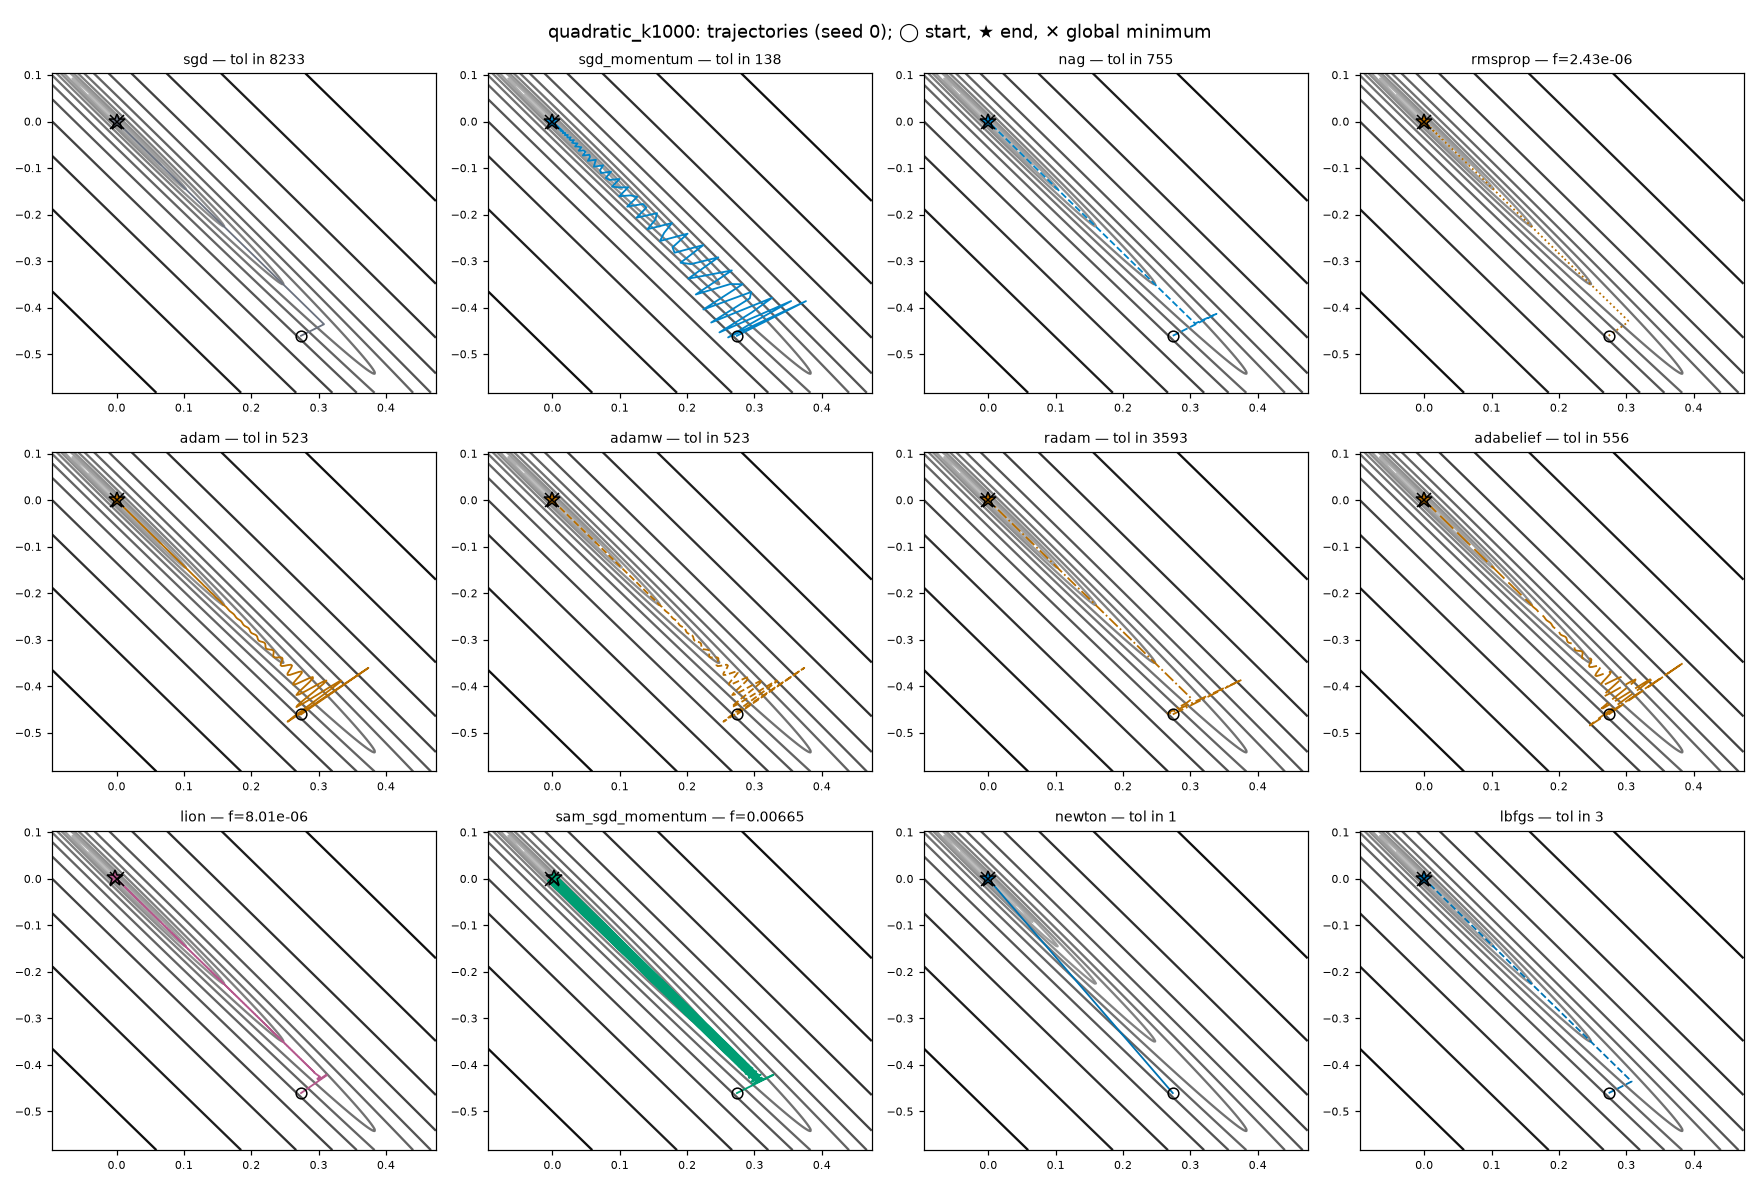
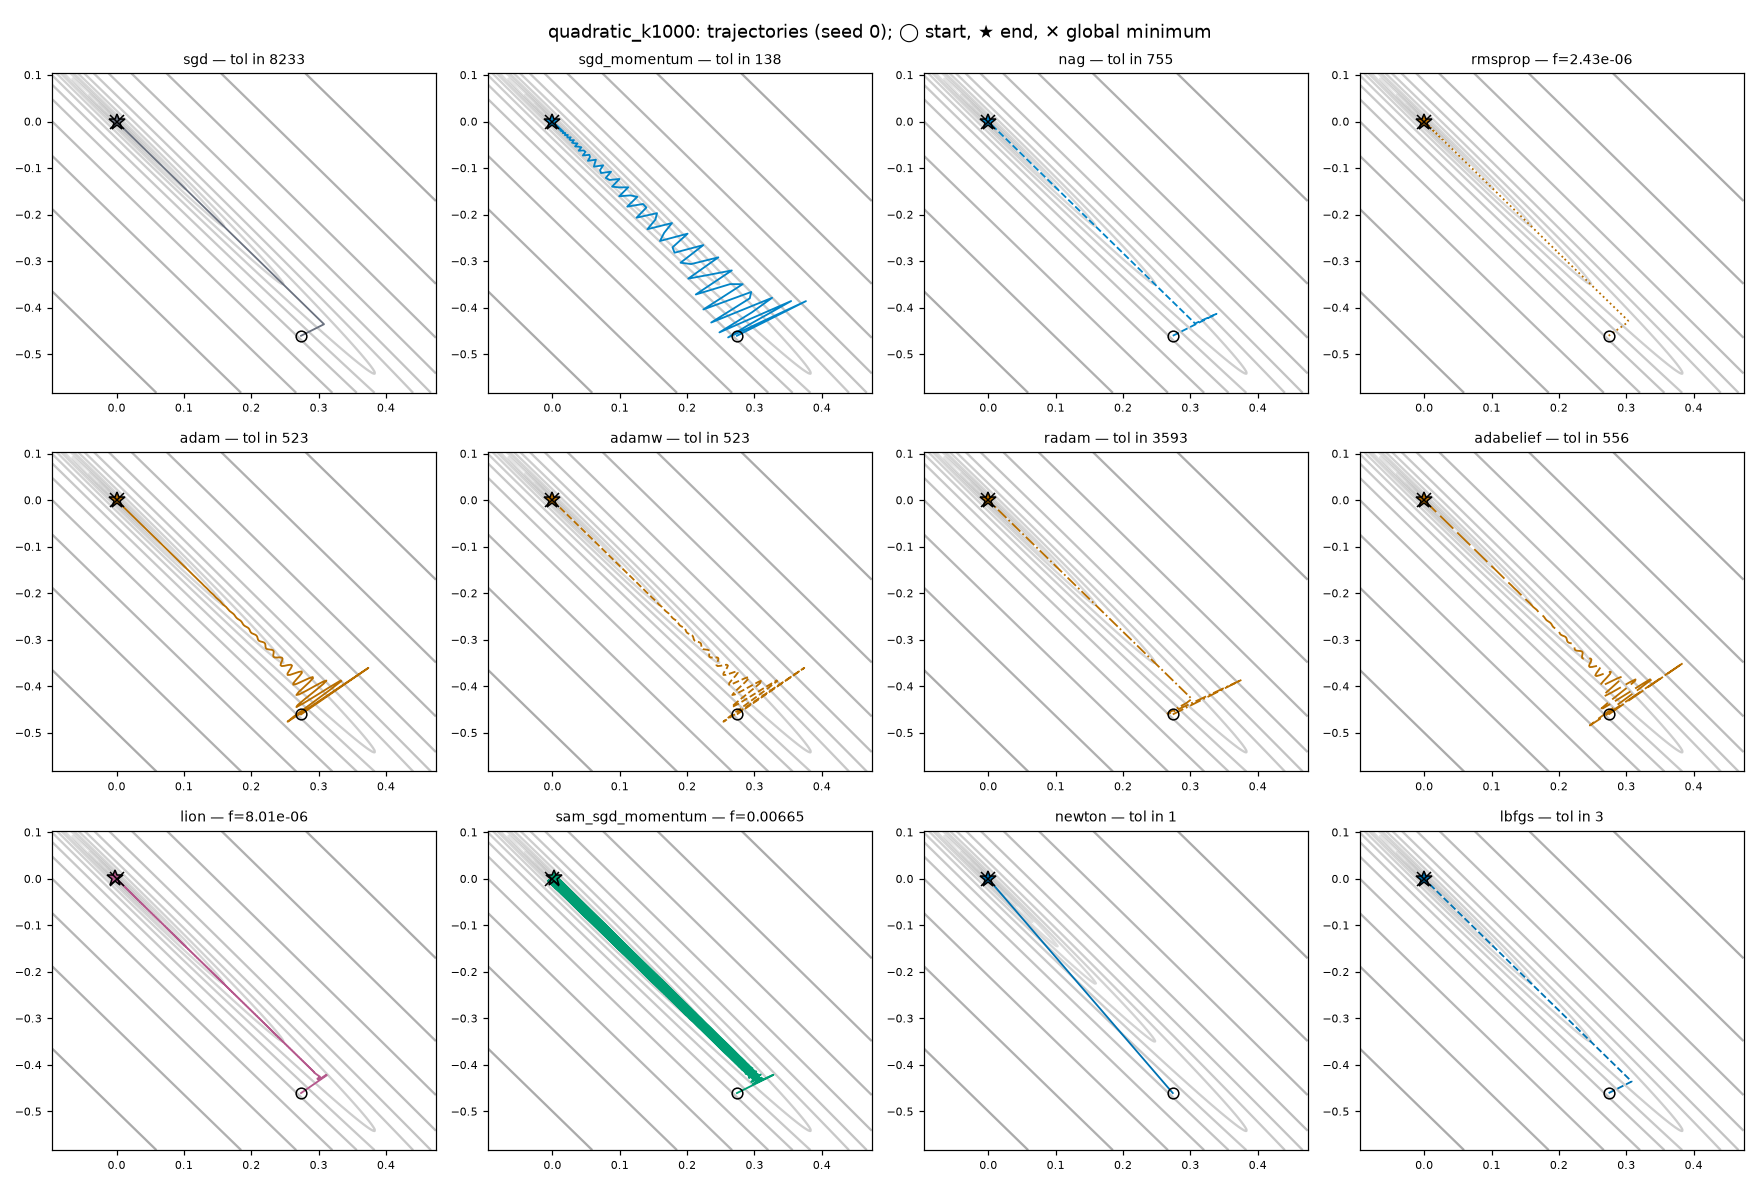
results: toy suite outputs from make toy (summary, tables, plots); lighter contours
results/toy_summary.md and results/toy/* are generated by optlab toy-report from the DB
(toy runs recorded at 2e640a7). results.db stays git-ignored; make toy regenerates it.

diff --git a/src/optlab/toy/report.py b/src/optlab/toy/report.py
@@ -170,9 +170,11 @@ def plot_benchmark(
     for ax, (o, path) in zip(axes.ravel(), trajs.items(), strict=False):
         if log_levels:
             levels = np.logspace(np.log10(max(z.min(), 1e-6)), np.log10(z.max()), 20)
-            ax.contour(gx, gy, np.maximum(z, 1e-6), levels=levels, norm=LogNorm(), cmap="Greys")
+            ax.contour(
+                gx, gy, np.maximum(z, 1e-6), levels=levels, norm=LogNorm(), cmap="Greys", alpha=0.35
+            )
         else:
-            ax.contour(gx, gy, z, levels=20, cmap="Greys")
+            ax.contour(gx, gy, z, levels=20, cmap="Greys", alpha=0.35)
         style = _style(o, first[o]["family"])
         if len(path):
             ax.plot(

diff --git a/README.md b/README.md
@@ -9,5 +9,11 @@ See `docs/PRD.md` for the research question and `docs/TRD.md` for the technical 
 ```bash
 make setup   # uv sync (Python 3.11)
 make test    # pytest on CPU
-make toy     # toy benchmark suite -> results/toy/
+make toy     # toy benchmark suite -> results/toy_summary.md, results/toy/
 ```
+
+`make toy` took 349 s on an Apple-silicon laptop CPU (measured 2026-10-12). Toy results:
+[results/toy_summary.md](results/toy_summary.md), generated from the results database.
+
+Feature extraction needs the optional extras (`uv sync --extra extract`) and local dataset
+copies; no dataset results exist yet.

diff --git a/results/toy_summary.md b/results/toy_summary.md
@@ -1,6 +1,6 @@
 # Toy benchmark summary
 
-_Generated by `optlab toy-report` from the results database on 2026-10-12 17:35 UTC. Do not edit by hand;
+_Generated by `optlab toy-report` from the results database on 2026-10-12 17:36 UTC. Do not edit by hand;
 run `make toy` to regenerate._
 
 - Experiment: `toy_v1` (recorded 2026-10-12 17:29:29 UTC)
